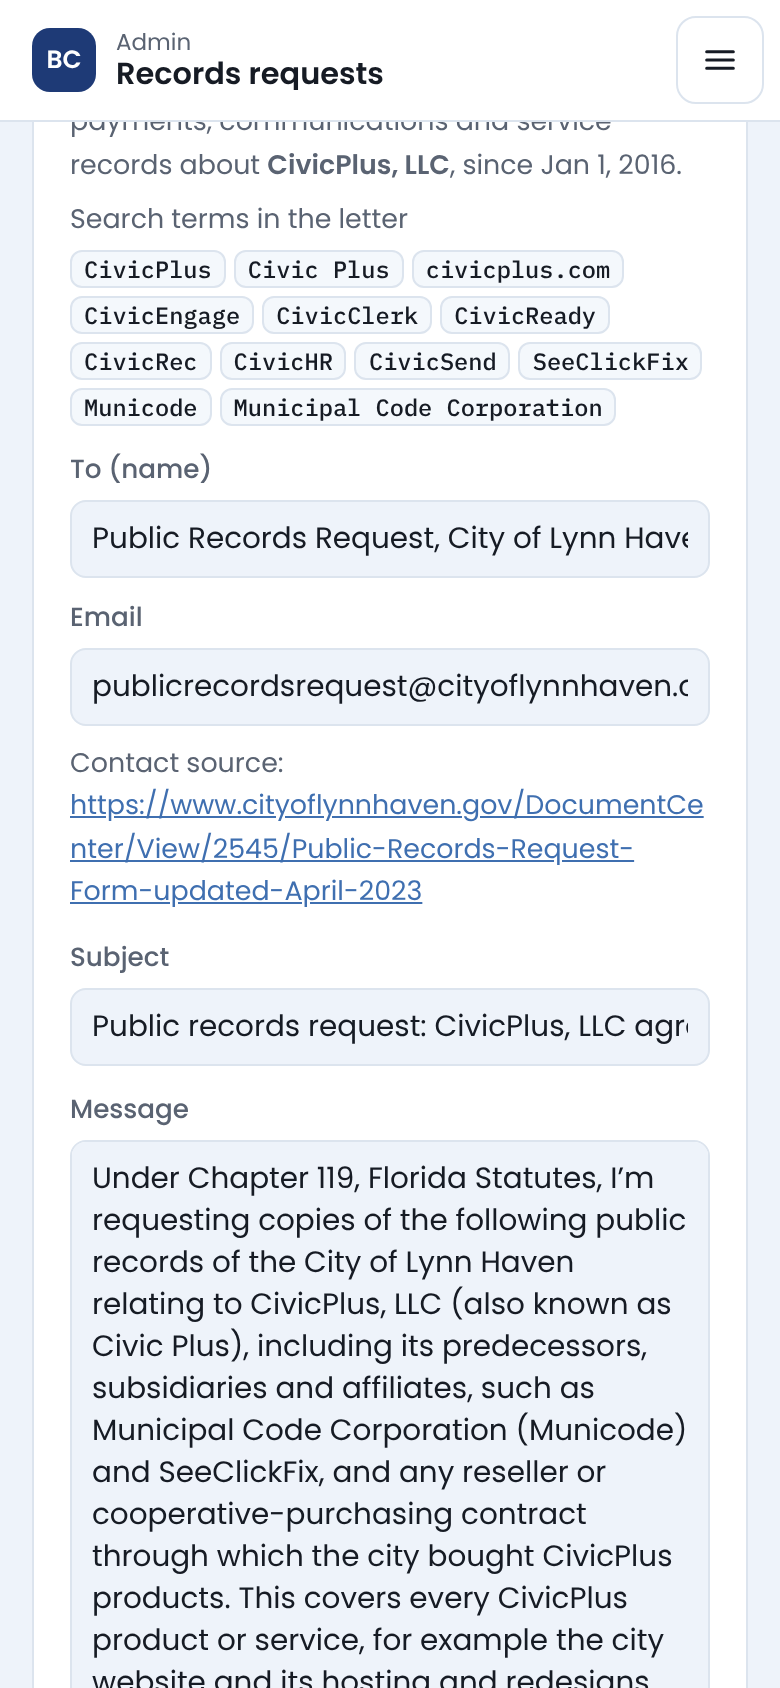
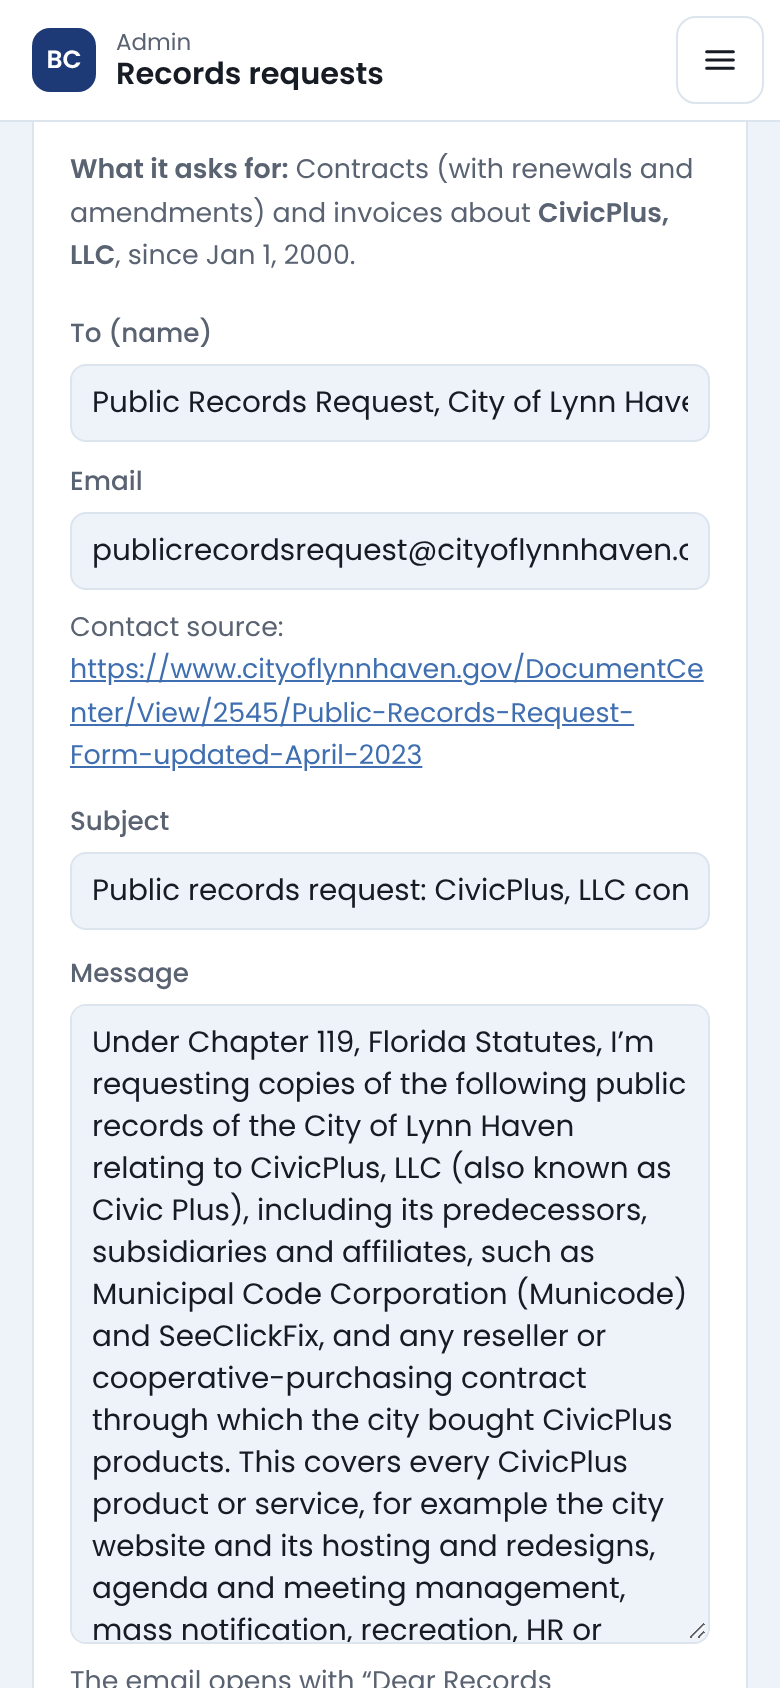
CivicPlus records requests: contracts and invoices only, since 2000
Jeremy narrowed both letters (Lynn Haven, Panama City). Drafts nobody has edited
pick up the new text the next time /admin Records requests opens.

Claude-Session: https://claude.ai/code/session_01HUBaQst2bnWgDQNLYZevgu

Changed region(s): [[0.0923, 0.0924, 0.9231, 1.0]]

diff --git a/api/__tests__/stale-requests.test.js b/api/__tests__/stale-requests.test.js
@@ -177,7 +177,7 @@ test('an open draft closes itself when the source catches up; an edited one keep
 });
 
 // Vendor records requests (data/civic/scripts/vendor_requests.py): everything about one company's dealings with a government.
-test('vendor letters: CivicPlus to Lynn Haven and Panama City, since 2016, with each city’s records address', () => {
+test('vendor letters: CivicPlus contracts and invoices from Lynn Haven and Panama City, since 2000, to each city’s records address', () => {
   const tmp = JSON.parse(fs.readFileSync(path.join(__dirname, '../../data/civic/vendor_requests.json'), 'utf8')).requests;
   const by = Object.fromEntries(tmp.map(r => [r.government_key, r]));
   assert.deepEqual(Object.keys(by).sort(), ['lh', 'pc']);
@@ -188,7 +188,9 @@ test('vendor letters: CivicPlus to Lynn Haven and Panama City, since 2016, with 
     assert.match(r.key, /^vendor-civicplus-(lh|pc)$/);
     assert.match(r.body, /^Under Chapter 119, Florida Statutes/);
     assert.match(r.body, new RegExp(`public records of the ${r.government} relating to CivicPlus, LLC`));
-    assert.match(r.body, /January 1, 2016 to the date of your search/);
+    assert.match(r.body, /January 1, 2000 to the date of your search/);
+    assert.match(r.body, /1\. Contracts: .*\n2\. Invoices: /);
+    assert.doesNotMatch(r.body, /emails|communications/i);
     assert.match(r.body, /invoice/);
     assert.match(r.body, /119\.07\(1\)\(e\)/);
     assert.match(r.body, /Jeremy McSpadden\nBayCounty\.me$/);

diff --git a/data/civic/scripts/vendor_requests.py b/data/civic/scripts/vendor_requests.py
@@ -1,5 +1,6 @@
-"""Draft public records requests about one vendor's dealings with a government: the contracts, quotes, invoices, payments,
-renewals and the mail about them, since the site's first year (data/entities/cutoff.py).
+"""Draft public records requests about one vendor's dealings with a government: its contracts (with renewals and amendments)
+and invoices, from each vendor's 'since' year. A records request may reach back before the site's 2016 cutoff
+(data/entities/cutoff.py); anything older that comes back is kept as a file and not shown on the site.
 
 Each entry in VENDORS is one request letter for each listed government. Writes data/civic/vendor_requests.json, which
 /admin seeds into corr.records_requests (kind 'vendor') as drafts. Nothing is sent from here: an admin reviews each draft
@@ -11,13 +12,10 @@ import json, os, sys
 
 HERE = os.path.dirname(os.path.abspath(__file__))
 ROOT = os.path.join(HERE, '..', '..', '..')
-sys.path.insert(0, os.path.join(ROOT, 'data', 'entities'))
 sys.path.insert(0, HERE)
-import cutoff  # noqa: E402
 from records_requests import INTAKE  # noqa: E402
 
 OUT = os.path.join(HERE, '..', 'vendor_requests.json')
-START = f'January 1, {cutoff.FIRST_YEAR}'
 
 # Records contacts, checked by hand on CHECKED against each city's own published page.
 CHECKED = '2026-11-12'
@@ -33,14 +31,13 @@ CUSTODIANS = {
            'took up changes to its records policy in January 2026, so a call to 850-265-2121 to confirm the address costs little.'),
 }
 
-# One letter per vendor. names: every name the company or its products go by, for the email search.
+# One letter per vendor. since: the first year asked for.
 VENDORS = {
     'civicplus': {
         'title': 'CivicPlus agreements',
         'vendor': 'CivicPlus, LLC',
         'govs': ['lh', 'pc'],
-        'names': ['CivicPlus', 'Civic Plus', 'civicplus.com', 'CivicEngage', 'CivicClerk', 'CivicReady', 'CivicRec', 'CivicHR', 'CivicSend',
-                  'SeeClickFix', 'Municode', 'Municipal Code Corporation'],
+        'since': 2000,  # Jeremy, 2026-11-12: contracts and invoices only, since 2000
         'about': ('CivicPlus, LLC (also known as Civic Plus), including its predecessors, subsidiaries and affiliates, such as Municipal Code '
                   'Corporation (Municode) and SeeClickFix, and any reseller or cooperative-purchasing contract through which the city bought '
                   'CivicPlus products. This covers every CivicPlus product or service, for example the city website and its hosting and '
@@ -52,26 +49,18 @@ VENDORS = {
 
 def letter(gov_key, v):
     gov = CUSTODIANS[gov_key][0]
-    names = ', '.join(f'“{n}”' for n in v['names'])
     intake = (f'\nIf it’s easier, the files can also be emailed to {INTAKE[gov_key]}@ingest.baycounty.me or uploaded at https://baycounty.me/staff '
               '(we can give your clerk’s staff a free sign-in).\n') if gov_key in INTAKE else ''
     return f'''Under Chapter 119, Florida Statutes, I’m requesting copies of the following public records of the {gov} relating to {v['about']}
 
-The period is {START} to the date of your search.
+The period is January 1, {v['since']} to the date of your search.
 
-1. Agreements: every contract, master services agreement, order form, quote or proposal, statement of work, renewal, amendment, addendum, change order, price increase or renewal notice, and termination or non-renewal notice, with all exhibits, schedules and attachments.
-2. Purchasing: any request for proposals, request for quotes or bid and the responses received, evaluation or scoring sheets, sole-source or cooperative-contract (piggyback) justifications, requisitions and purchase orders.
-3. Approvals: agenda items, staff reports or memos, resolutions, and the minutes or approvals for each purchase, renewal or amendment.
-4. Money: every invoice and credit memo, and the payment records for each (check or ACH register entries, purchasing card charges), plus the budget account or line each was charged to.
-5. Communications: emails (with attachments), letters, text messages and meeting notes or calendar entries between any city official or employee and anyone at the company, and city officials’ and employees’ internal communications about these agreements, products or invoices. A search of city email accounts for these terms should find most of them: {names}.
-6. Service records: implementation and project plans, acceptance or sign-off documents, support tickets or escalations, service-level or performance reports, complaints, security or data incident notices, data ownership or export terms, and certificates of insurance.
-7. Any list or summary of the CivicPlus products the city uses now or has used since {cutoff.FIRST_YEAR}, with the yearly cost of each, if one exists.
+1. Contracts: every contract, agreement, order form, renewal and amendment, with their exhibits and attachments.
+2. Invoices: every invoice and credit memo the city received.
 
-Electronic copies are preferred: documents as PDF or in their original format, spreadsheets in Excel or CSV, and emails as PDF or in their native format with the sender, recipients and date shown. If any of this is already posted online, a link is all I need.
-
-Please send the agreements, invoices and payment records as soon as they’re ready, and the communications after, rather than holding the whole request until everything is gathered. If any record or part of one is withheld or redacted, please cite the statute for each exemption, as section 119.07(1)(e) requires, and release the rest.
+Electronic copies are preferred, as PDF or in their original format. If any of this is already posted online, a link is all I need. If a year can’t be found, please send what exists rather than holding the rest, and if any record or part of one is withheld or redacted, please cite the statute for each exemption, as section 119.07(1)(e) requires.
 {intake}
-These records will be shown to residents on BayCounty.me, an independent public-records site for Bay County. If fulfilling the request will cost more than $25, please send an estimate before starting.
+These records will be used by BayCounty.me, an independent public-records site for Bay County. If fulfilling the request will cost more than $25, please send an estimate before starting.
 
 Thank you,
 Jeremy McSpadden
@@ -85,18 +74,17 @@ def drafts():
             gov, who, email, url, note = CUSTODIANS[g]
             out.append({'key': f'vendor-{vk}-{g}', 'kind': 'vendor', 'check_title': v['title'], 'government': gov, 'government_key': g,
                         'recipient_name': who, 'recipient_email': email, 'contact_url': url,
-                        'subject': f'Public records request: {v["vendor"]} agreements, invoices and communications since {cutoff.FIRST_YEAR}',
+                        'subject': f'Public records request: {v["vendor"]} contracts and invoices since {v["since"]}',
                         'body': letter(g, v),
-                        'gaps': [{'vendor': v['vendor'], 'since': f'{cutoff.FIRST_YEAR}-01-01', 'names': v['names'],
-                                  'need': 'Contracts, quotes, renewals, amendments, purchasing, approvals, invoices, payments, communications and service records'}],
+                        'gaps': [{'vendor': v['vendor'], 'since': f'{v["since"]}-01-01', 'need': 'Contracts (with renewals and amendments) and invoices'}],
                         'notes': note})
     return out
 
 
 def main():
     d = drafts()
-    json.dump({'as_of': CHECKED, 'about': 'Records request drafts about one vendor’s dealings with a government (contracts, invoices, payments, '
-               'communications). Seeded into corr.records_requests and sent only from /admin.', 'requests': d},
+    json.dump({'as_of': CHECKED, 'about': 'Records request drafts for one vendor’s contracts and invoices with a government. '
+               'Seeded into corr.records_requests and sent only from /admin.', 'requests': d},
               open(OUT, 'w'), indent=1, ensure_ascii=False)
     for r in d:
         print(r['key'], r['recipient_email'], r['subject'])
